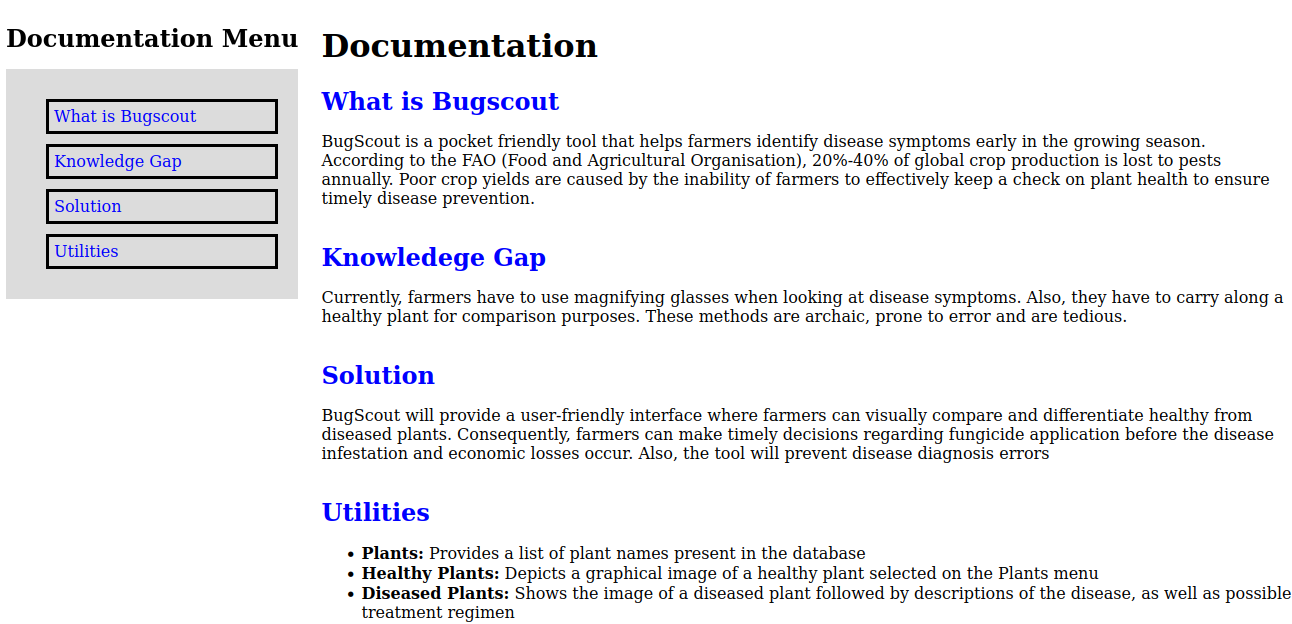
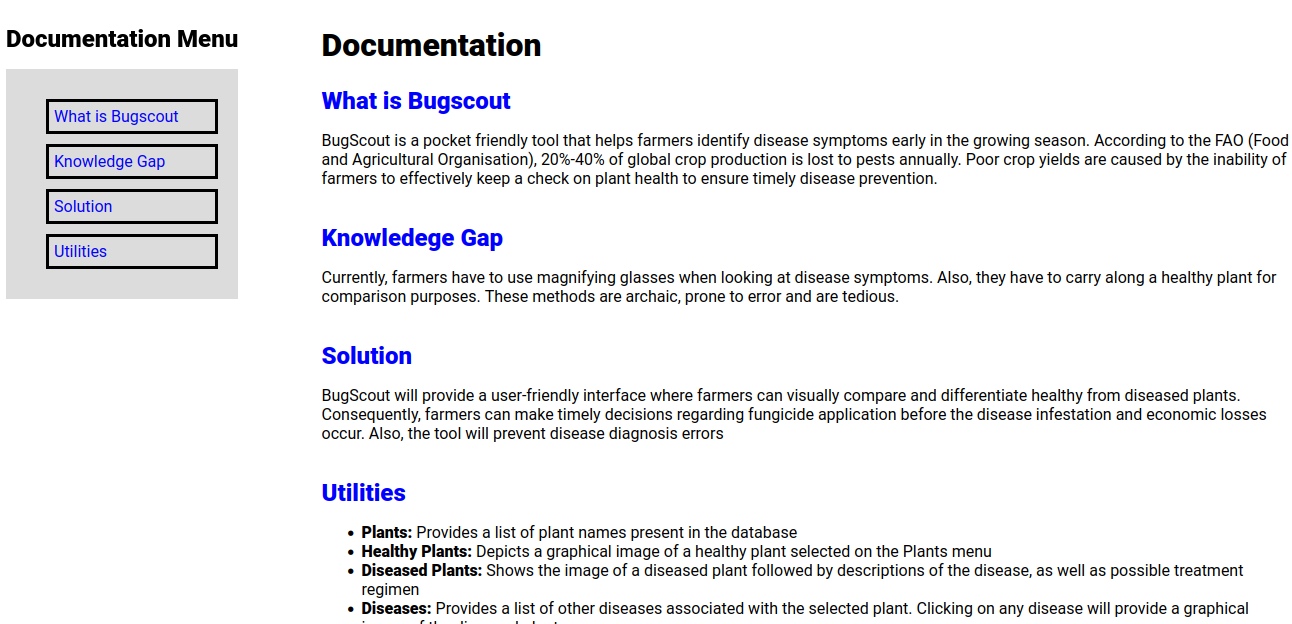
updated documentation fonts

diff --git a/documentation.css b/documentation.css
@@ -1,8 +1,11 @@
+@import url("https://fonts.googleapis.com/css2?family=Roboto:ital,wght@0,400;0,900;1,700&display=swap");
+
 #main-body {
     display: grid;
     grid-template-columns: minmax(300px, auto)1fr;
     grid-template-areas: "navbar mainDoc";
     grid-gap: 20px;
+    font-family: "Roboto", sans-serif;
 }
 
 #navbar{
